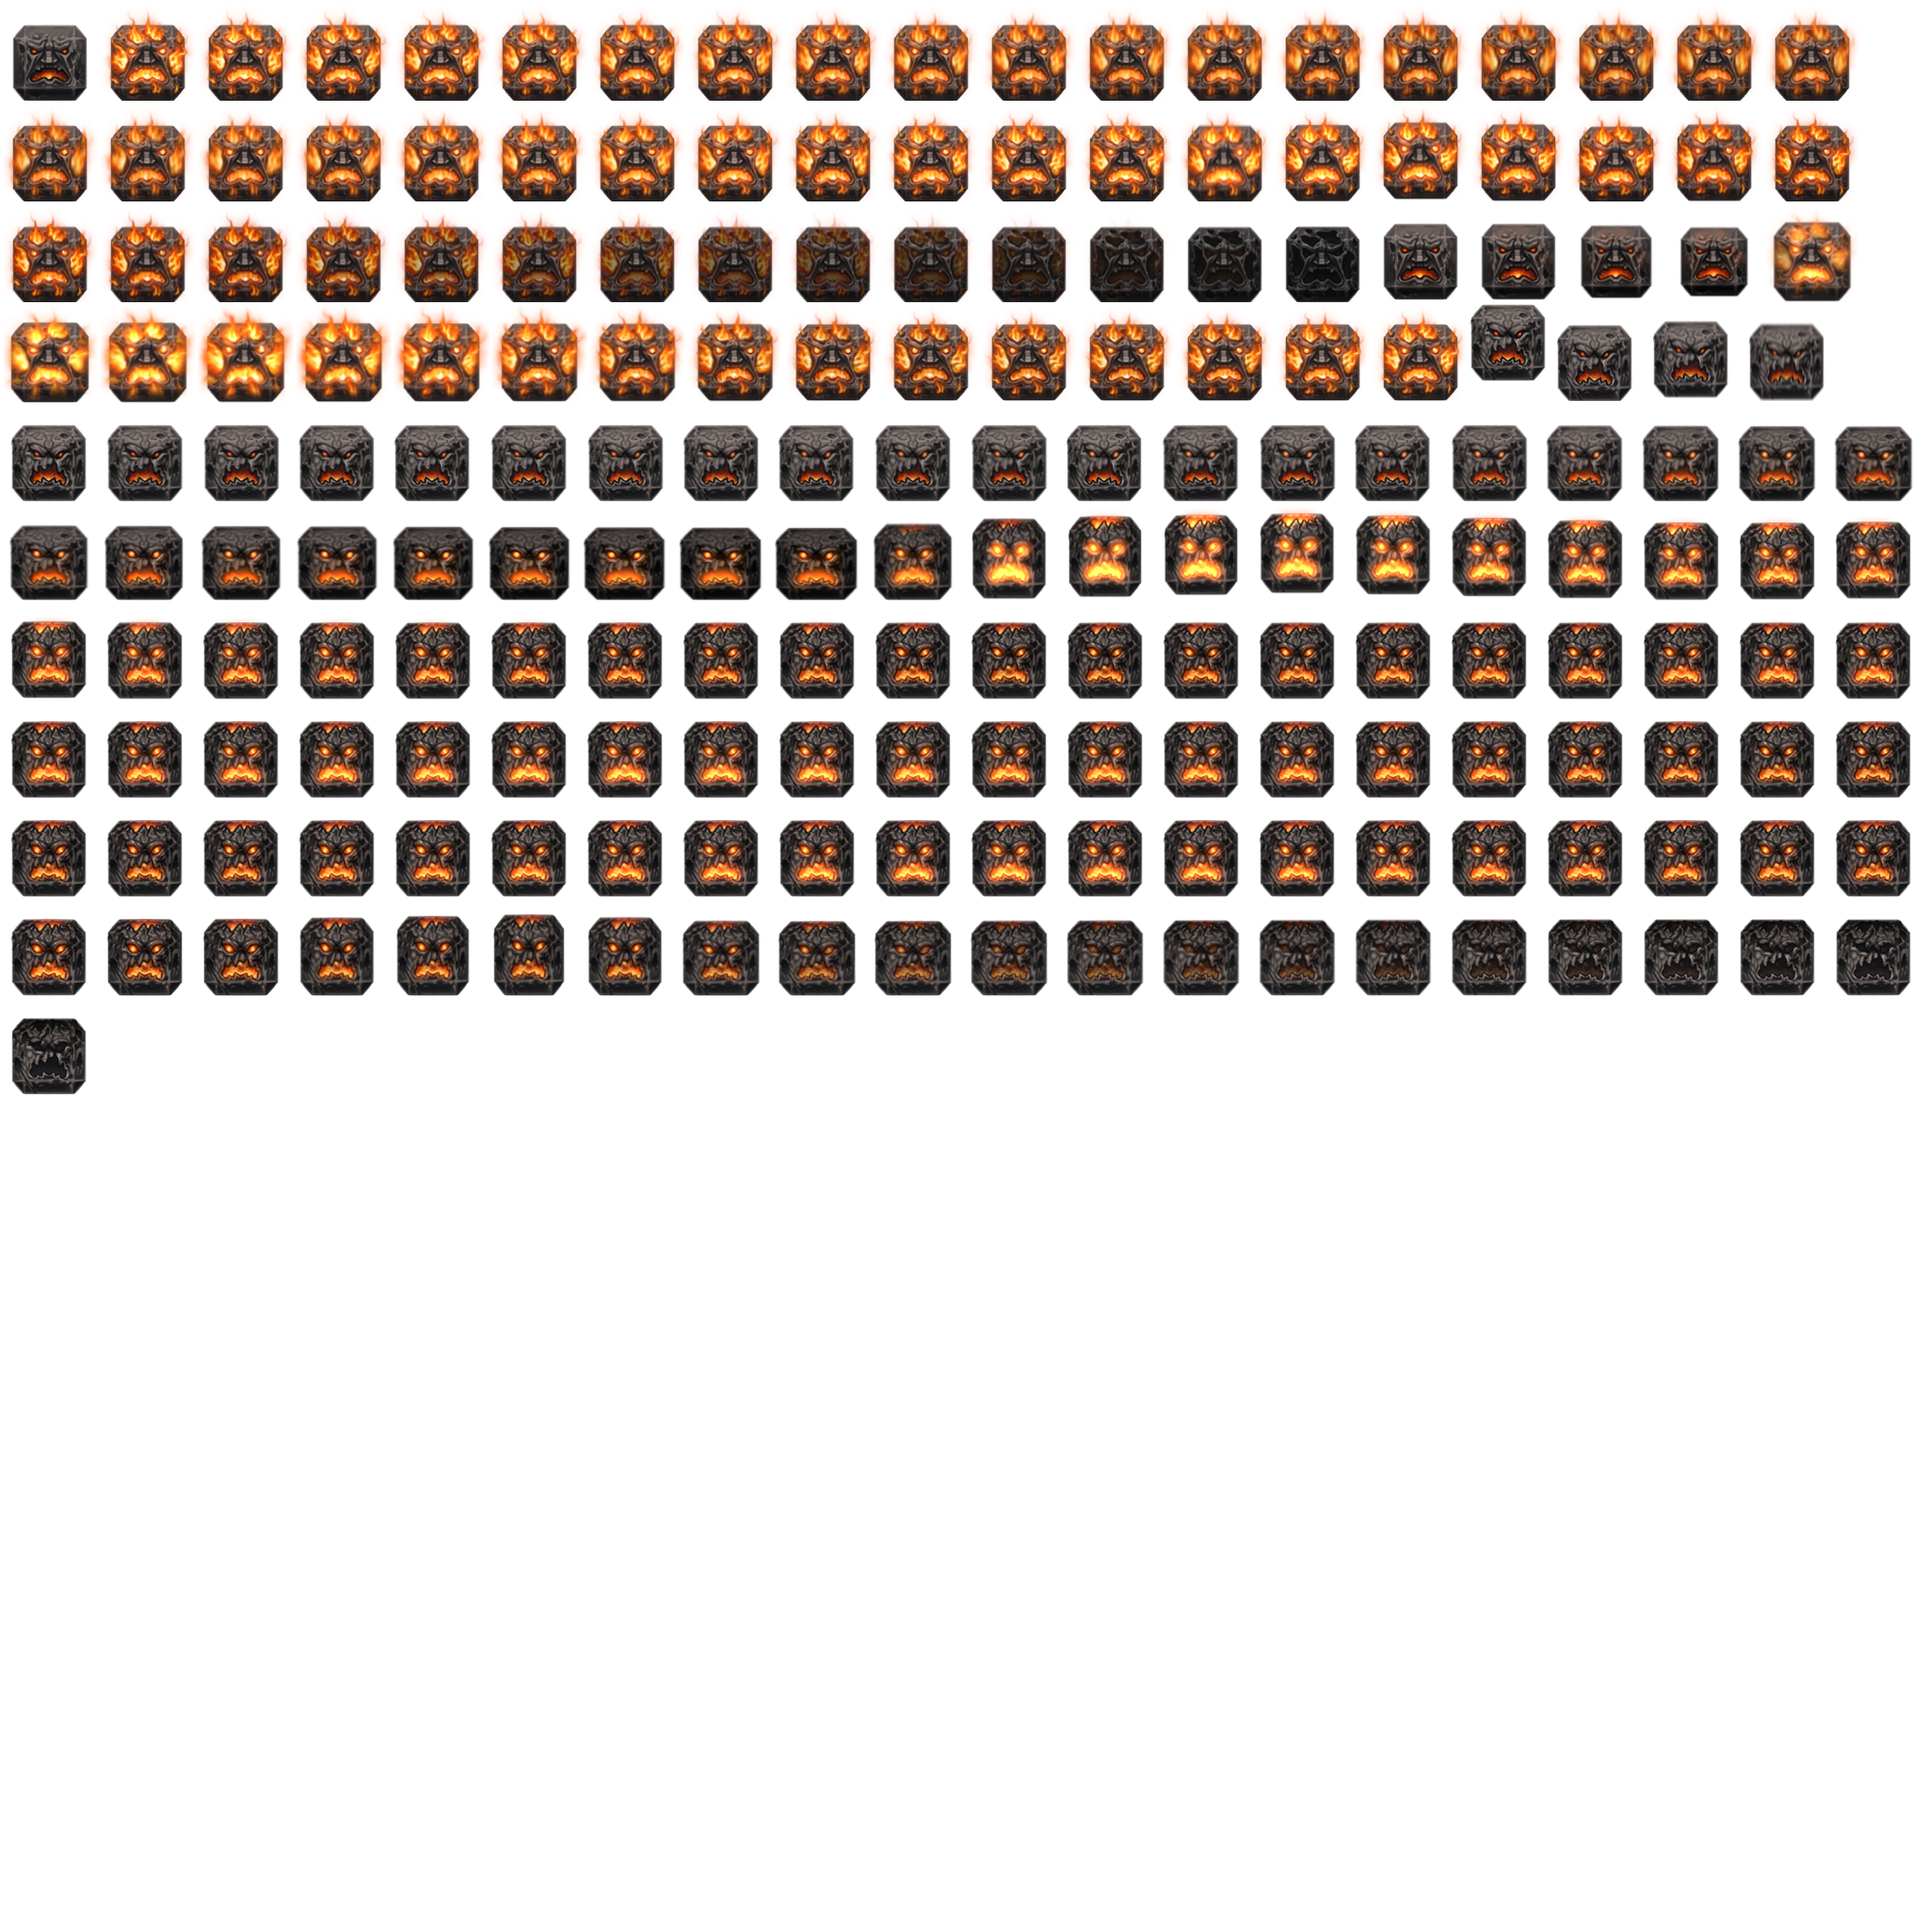
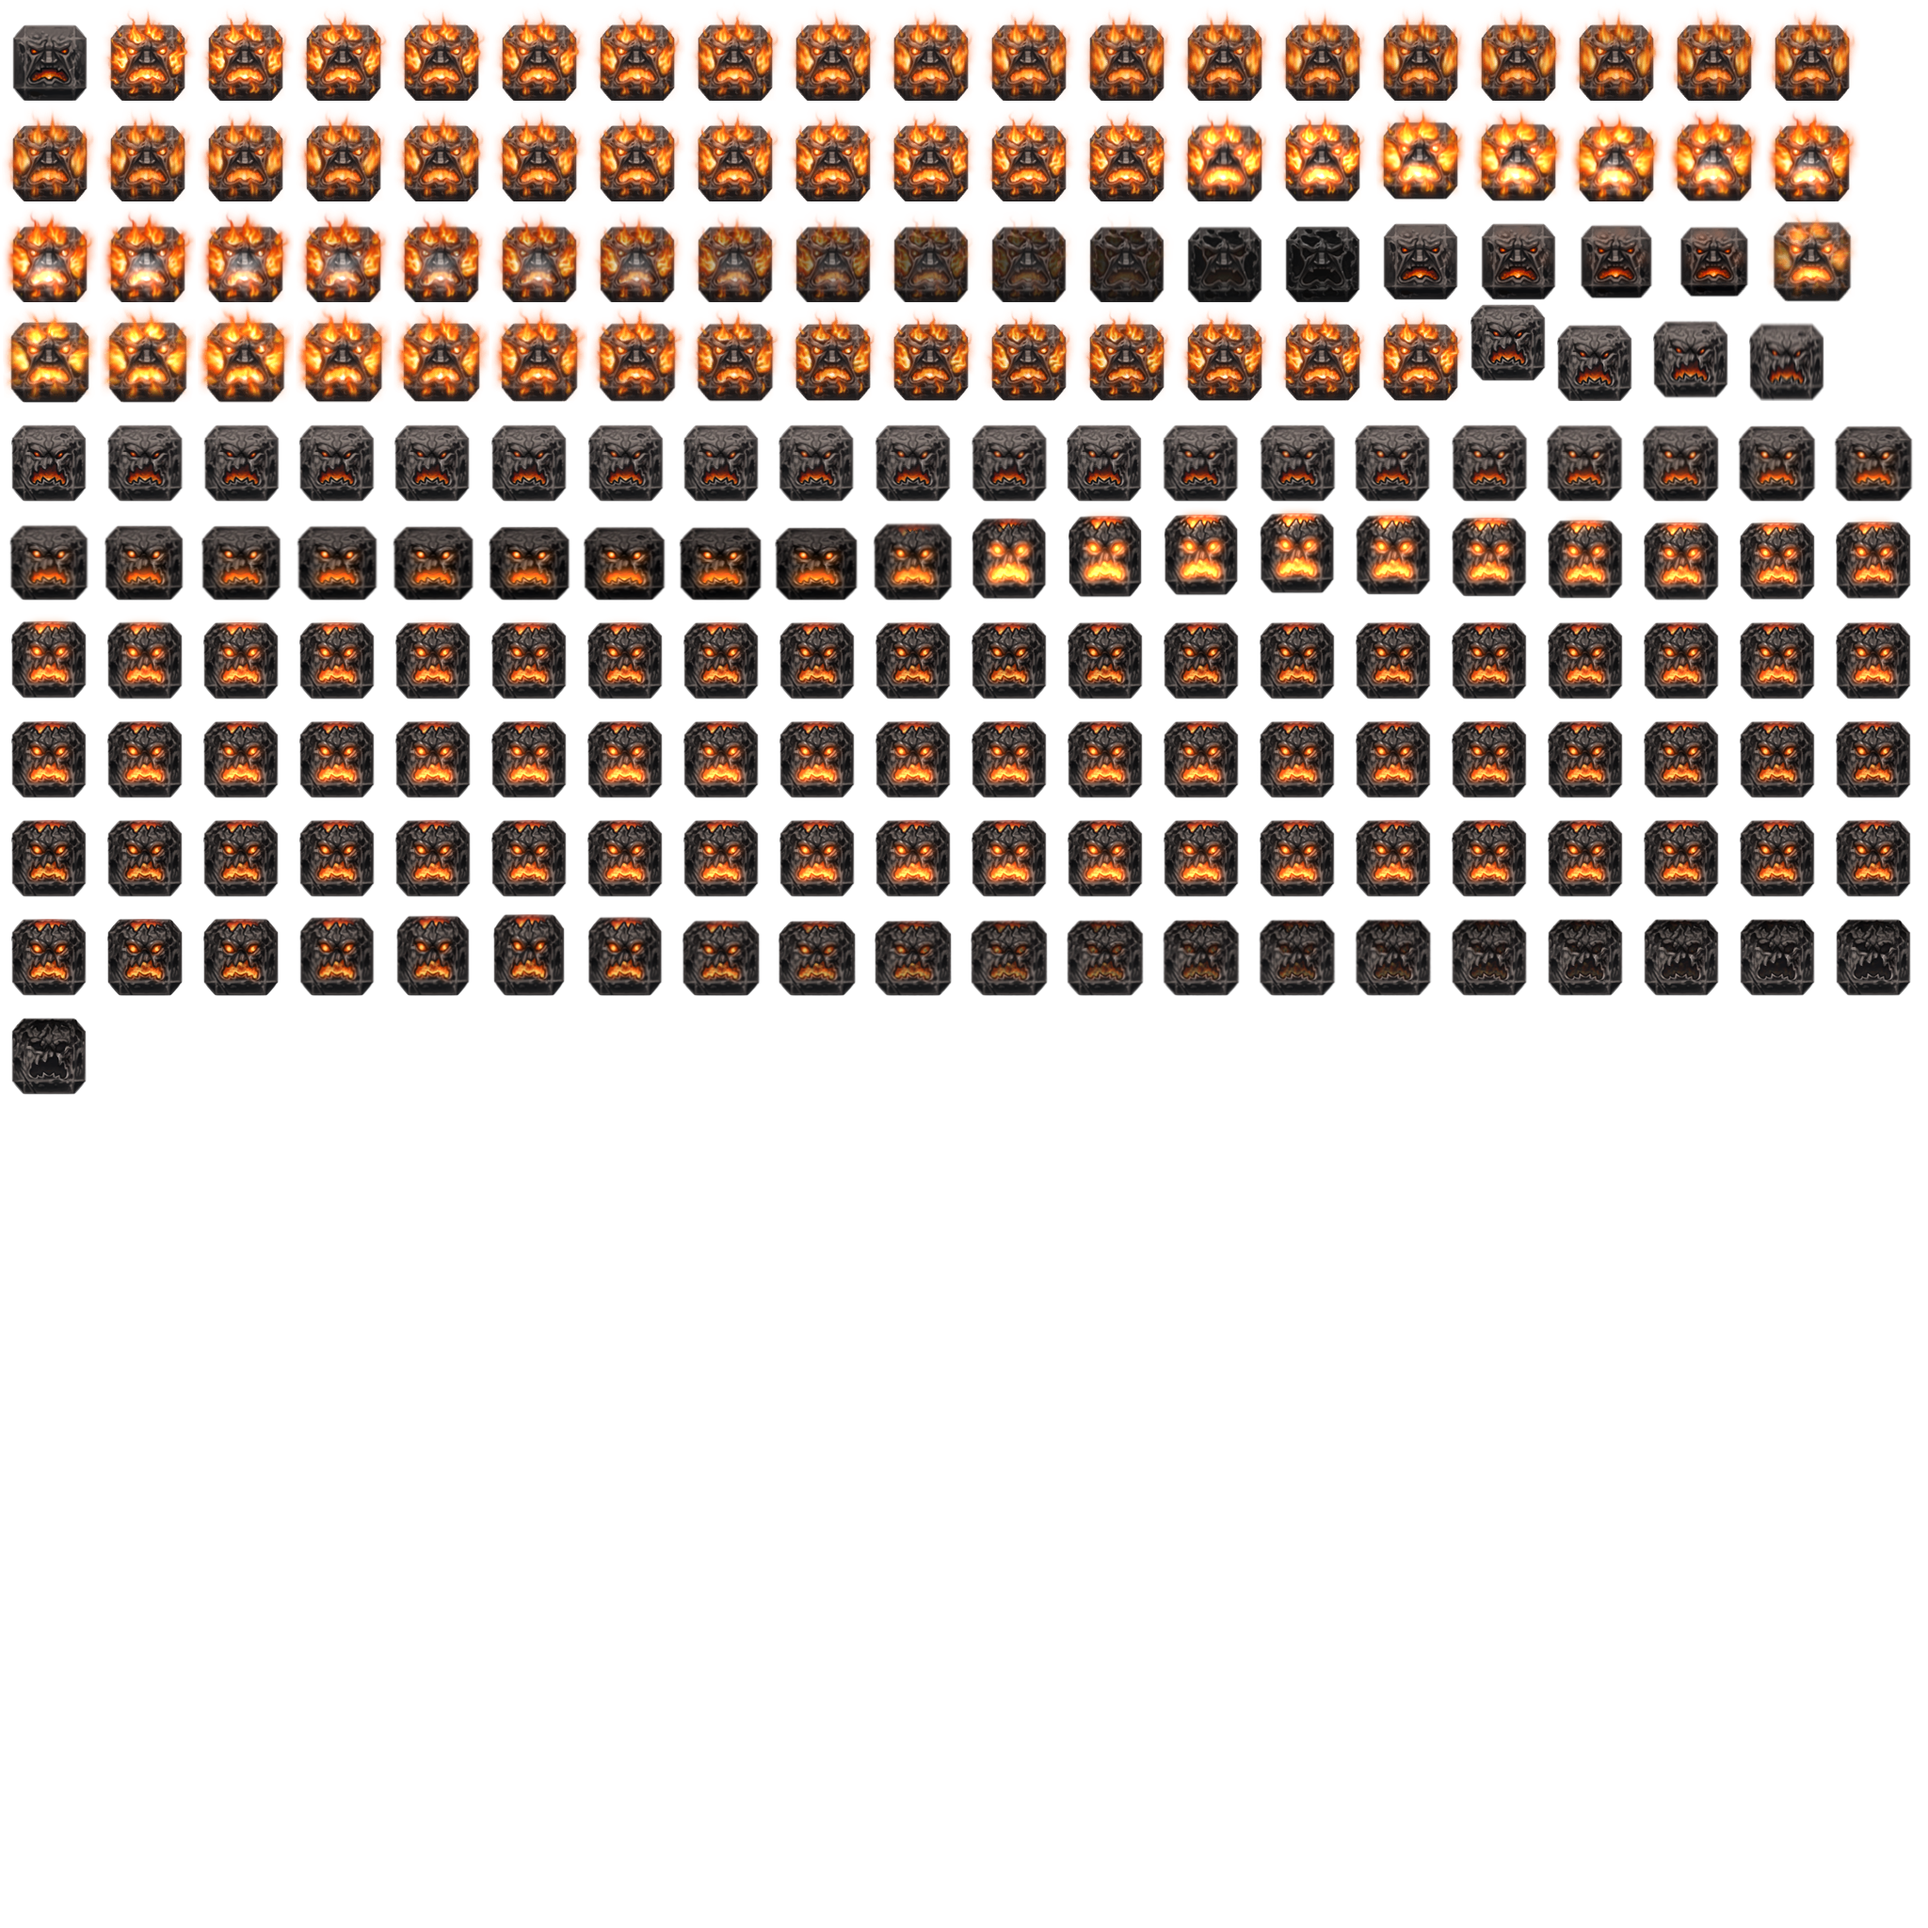
Glow on burning wall

Changed region(s): [[0.0, 0.0938, 0.5, 0.1562], [0.5938, 0.0625, 0.9688, 0.125], [0.5312, 0.125, 0.5625, 0.1562]]

diff --git a/core/src/com/retrom/volcano/game/World.java b/core/src/com/retrom/volcano/game/World.java
@@ -29,6 +29,7 @@ import com.retrom.volcano.effects.BurningWallGlow;
 import com.retrom.volcano.effects.Effect;
 import com.retrom.volcano.effects.EffectFactory;
 import com.retrom.volcano.effects.FlameEffect;
+import com.retrom.volcano.effects.FlameGlowEffect;
 import com.retrom.volcano.effects.Score10Effect;
 import com.retrom.volcano.effects.Score15GreenEffect;
 import com.retrom.volcano.effects.Score15PurpleEffect;
@@ -143,8 +144,10 @@ public class World {
 		}
 		
 		if (Gdx.input.isKeyJustPressed(Input.Keys.E)) {
-			screenEffects.add(EffectFactory.coinCrushedEffect(new Vector2(100,100)));
-			addEffects.add(EffectFactory.coinCrushedEffect(new Vector2(-100,100)));
+//			screenEffects.add(EffectFactory.coinCrushedEffect(new Vector2(100,100)));
+//			addEffects.add(EffectFactory.coinCrushedEffect(new Vector2(-100,100)));
+			
+			addEffects.add(new FlameGlowEffect(new Vector2(100,100)));
 		}
 		
 		if (Gdx.input.isKeyJustPressed(Input.Keys.G)) {
@@ -336,6 +339,7 @@ public class World {
 				if (wall.status() == Wall.STATUS_INACTIVE && !f.flameAdded && wall.stateTime() > 1.1) {
 					f.flameAdded = true;
 					addEffects.add(new FlameEffect(new Vector2(new Vector2(wall.position.x, wall.position.y + 96))));
+					addEffects.add(new FlameGlowEffect(new Vector2(new Vector2(wall.position.x, wall.position.y + Wall.SIZE/2))));
 					enemies_.add(new Flame(wall.position.x, wall.position.y + 96));
 				}
 			}

diff --git a/core/src/com/retrom/volcano/effects/FlameGlowEffect.java b/core/src/com/retrom/volcano/effects/FlameGlowEffect.java
@@ -1,0 +1,40 @@
+package com.retrom.volcano.effects;
+
+import com.badlogic.gdx.graphics.g2d.Sprite;
+import com.badlogic.gdx.math.Vector2;
+import com.retrom.volcano.assets.Assets;
+
+public class FlameGlowEffect extends OneFrameEffect {
+	
+	private static float DURATION = 3.5f;
+
+	public FlameGlowEffect(Vector2 position) {
+		super(Assets.burningWallGlow, DURATION, position);
+	}
+	
+	@Override
+	public Sprite sprite() {
+		Sprite $ = super.sprite();
+		setTint($, getGlowAlpha());
+		return $;
+	}
+
+	private void setTint(Sprite $, float glowAlpha) {
+		$.setColor(glowAlpha, glowAlpha, glowAlpha, glowAlpha);
+	}
+	
+	@Override
+	public float getScale() {
+		return 0.75f;
+	}
+
+	private float getGlowAlpha() {
+		if (stateTime() < 0.4f) {
+			return stateTime() / 0.4f;
+		}
+		if (stateTime() < 2.7f) {
+			return 1f;
+		}
+		return Math.max(0, 1 - (stateTime() - 2.7f)*3);
+	}
+}

diff --git a/core/src/com/retrom/volcano/game/Spawner.java b/core/src/com/retrom/volcano/game/Spawner.java
@@ -61,11 +61,15 @@ public class Spawner {
 				}
 			}
 			if (!dualDropped) {
+				Integer col = candidates.get(rand.nextInt(candidates.size()));
 				if (rand.nextInt(3) == 0) {
-//					handler_.dropBurningWall(candidates.get(rand.nextInt(candidates.size())));
-					handler_.dropFlamethrower(candidates.get(rand.nextInt(candidates.size())));
+					if (rand.nextBoolean()) {
+						handler_.dropBurningWall(col);
+					} else {
+						handler_.dropFlamethrower(col);
+					}
 				} else {
-					handler_.dropWall(candidates.get(rand.nextInt(candidates.size())));
+					handler_.dropWall(col);
 				}
 			}
 		}

diff --git a/core/src/com/retrom/volcano/game/Player.java b/core/src/com/retrom/volcano/game/Player.java
@@ -91,10 +91,11 @@ public class Player extends DynamicGameObject {
 		}
 		
 		float accel = Gdx.input.getAccelerometerX();
-		if (Math.abs(accel) < 1) {
-			accel = 0;
+		if (Math.abs(accel) < 0.5) {
+			return 0;
 		}
-		return accel;
+//		return (float) (Math.sin((accel - Math.signum(accel)) / 9 *Math.PI) * 10);
+		return Math.signum(accel) * (Math.abs(accel) - 0.5f);
 	}
 
 	public void update (float deltaTime) {

diff --git a/core/src/com/retrom/volcano/game/objects/BurningWall.java b/core/src/com/retrom/volcano/game/objects/BurningWall.java
@@ -8,7 +8,7 @@ public class BurningWall extends Wall {
 	boolean start_sound_played;
 	boolean end_sound_played;
 	
-	public static final float TIME_WITHOUT_BURN = 0.5f;
+	public static final float TIME_WITHOUT_BURN = 0.7f;
 	private static final int START_NUM_FRAMES = 20;
 	public static final float TIME_START =  TIME_WITHOUT_BURN + START_NUM_FRAMES * WorldRenderer.FRAME_TIME;
 

diff --git a/core/src/com/retrom/volcano/game/objects/Wall.java b/core/src/com/retrom/volcano/game/objects/Wall.java
@@ -10,7 +10,7 @@ public class Wall extends DynamicGameObject {
 	
 	public static final float SIZE = 80f;
 	protected static final int NUM_COLS = 6;
-	private static final float GRAVITY_RATIO = 0.4f;
+	private static final float GRAVITY_RATIO = 0.3f;
 	
 	public static int STATUS_ACTIVE = 1;
 	public static int STATUS_INACTIVE = 2;

diff --git a/core/src/com/retrom/volcano/game/WorldRenderer.java b/core/src/com/retrom/volcano/game/WorldRenderer.java
@@ -151,8 +151,8 @@ public class WorldRenderer {
 		batch.enableBlending();
 		setBlendFuncNormal();
 		batch.begin();
-		renderPlayer();
 		renderWalls();
+		renderPlayer();
 		renderCoins();
 		renderFloor();
 		drawPillar(world.background.leftPillar, FRUSTUM_WIDTH / 2 - 40, world.background.leftBaseY());

diff --git a/core/src/com/retrom/volcano/effects/BurningWallGlow.java b/core/src/com/retrom/volcano/effects/BurningWallGlow.java
@@ -17,7 +17,6 @@ public class BurningWallGlow extends OneFrameEffect {
 	
 	@Override
 	public Sprite sprite() {
-		System.out.println("+++++++++++++Get burning wall glow sprite");
 		Sprite $ = super.sprite();
 		setTint($, getGlowAlpha());
 		return $;

diff --git a/core/src/com/retrom/volcano/game/objects/Flame.java b/core/src/com/retrom/volcano/game/objects/Flame.java
@@ -2,7 +2,7 @@ package com.retrom.volcano.game.objects;
 
 public class Flame extends Enemy {
 	
-	private static final float duration = 3.5f;
+	private static final float duration = 3f;
 
 	public Flame(float x, float y) {
 		super(x, y, 30, 30);

diff --git a/core/src/com/retrom/volcano/assets/SoundAssets.java b/core/src/com/retrom/volcano/assets/SoundAssets.java
@@ -116,5 +116,6 @@ public class SoundAssets {
 	
 	public static void stopAllSounds() {
 		stopSound(powerupMagnetLoop);
+		stopSound(flamethrowerStart);
 	}
 }
